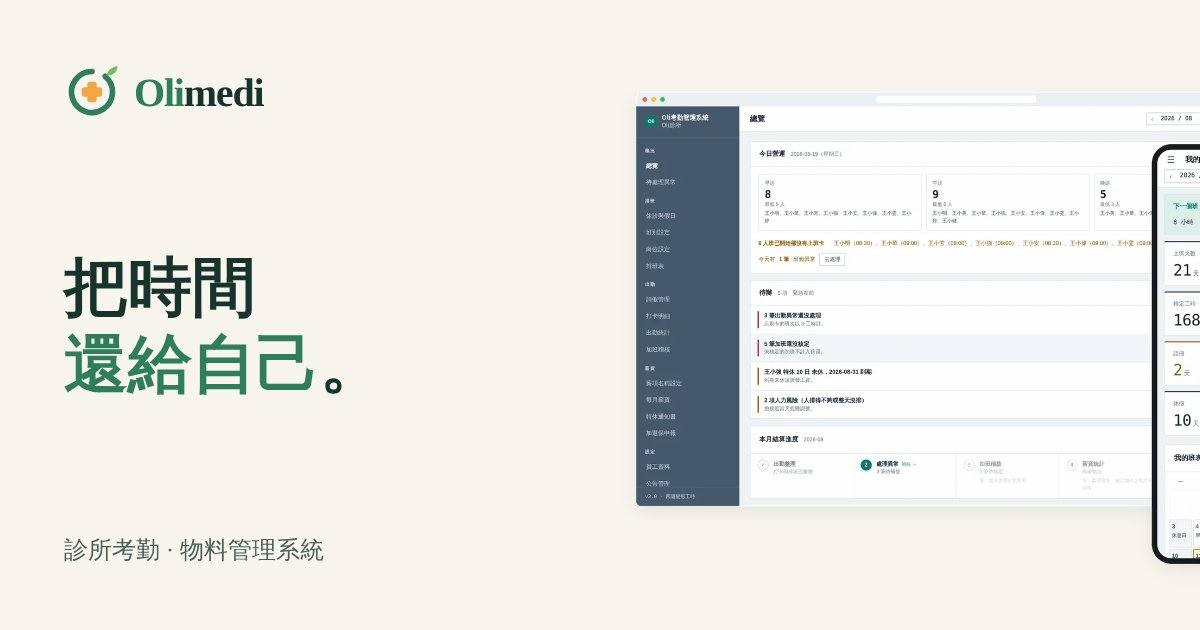
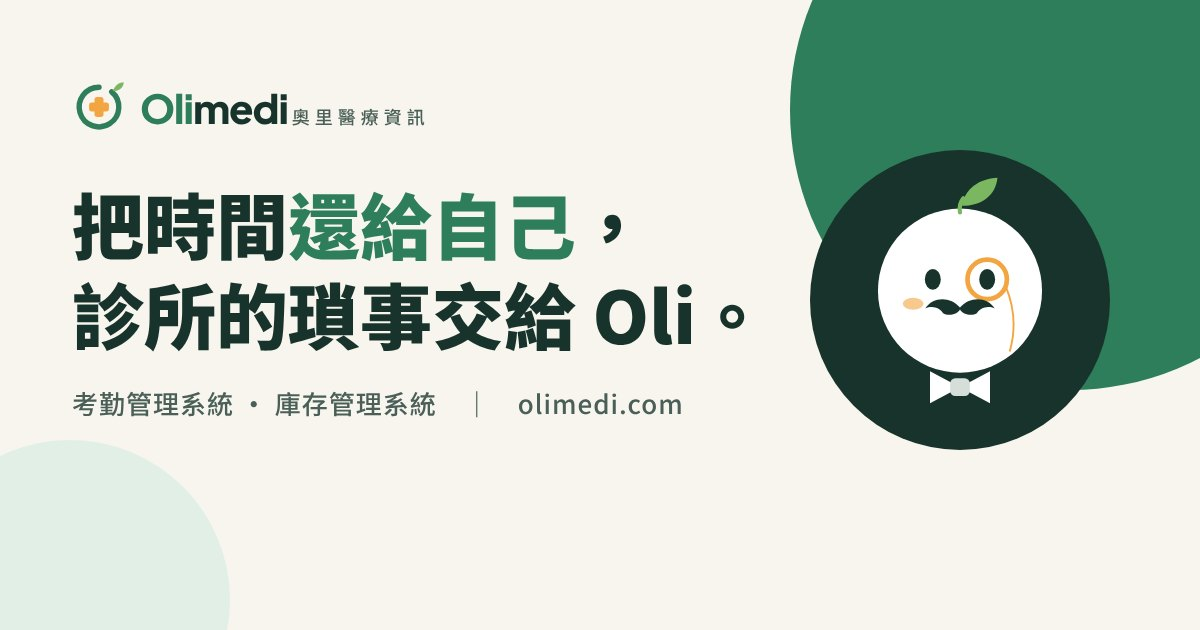
Per-article social share images; refresh default share image with new product names
Claude-Session: https://claude.ai/code/session_01JJ9BNjGdWpK4NeKE6jUSjR

diff --git a/blog/clinic-inventory-abc-stocktaking.html b/blog/clinic-inventory-abc-stocktaking.html
@@ -12,7 +12,7 @@
 <meta property="og:title" content="診所庫存盤點怎麼做？ABC 分級盤點法｜Olimedi 奧里">
 <meta property="og:description" content="診所庫存盤點怎麼做才不累？介紹 ABC 分級盤點法：依品項金額與重要性分成 A、B、C 三級，搭配不同盤點頻率，附分級步驟、盤點流程、差異處理與管制藥品等特殊品項的注意事項。">
 <meta property="og:url" content="https://olimedi.com/blog/clinic-inventory-abc-stocktaking.html">
-<meta property="og:image" content="https://olimedi.com/img/og.jpg">
+<meta property="og:image" content="https://olimedi.com/img/og/clinic-inventory-abc-stocktaking.jpg">
 <meta property="og:image:width" content="1200">
 <meta property="og:image:height" content="630">
 <meta property="og:locale" content="zh_TW">
@@ -22,7 +22,7 @@
 <link rel="preconnect" href="https://fonts.gstatic.com" crossorigin>
 <link href="https://fonts.googleapis.com/css2?family=Plus+Jakarta+Sans:wght@700;800&family=Noto+Sans+TC:wght@400;500;700;900&display=swap" rel="stylesheet">
 <link rel="stylesheet" href="/style.css">
-<script type="application/ld+json">{"@context": "https://schema.org", "@type": "BlogPosting", "headline": "診所庫存盤點怎麼做？ABC 分級盤點法", "description": "診所庫存盤點怎麼做才不累？介紹 ABC 分級盤點法：依品項金額與重要性分成 A、B、C 三級，搭配不同盤點頻率，附分級步驟、盤點流程、差異處理與管制藥品等特殊品項的注意事項。", "datePublished": "2026-10-03", "dateModified": "2026-10-03", "inLanguage": "zh-TW", "mainEntityOfPage": "https://olimedi.com/blog/clinic-inventory-abc-stocktaking.html", "image": "https://olimedi.com/img/og.jpg", "author": {"@type": "Organization", "name": "Olimedi 奧里醫療資訊"}, "publisher": {"@type": "Organization", "name": "Olimedi 奧里醫療資訊", "logo": {"@type": "ImageObject", "url": "https://olimedi.com/favicon.svg"}}}</script>
+<script type="application/ld+json">{"@context": "https://schema.org", "@type": "BlogPosting", "headline": "診所庫存盤點怎麼做？ABC 分級盤點法", "description": "診所庫存盤點怎麼做才不累？介紹 ABC 分級盤點法：依品項金額與重要性分成 A、B、C 三級，搭配不同盤點頻率，附分級步驟、盤點流程、差異處理與管制藥品等特殊品項的注意事項。", "datePublished": "2026-10-03", "dateModified": "2026-10-03", "inLanguage": "zh-TW", "mainEntityOfPage": "https://olimedi.com/blog/clinic-inventory-abc-stocktaking.html", "image": "https://olimedi.com/img/og/clinic-inventory-abc-stocktaking.jpg", "author": {"@type": "Organization", "name": "Olimedi 奧里醫療資訊"}, "publisher": {"@type": "Organization", "name": "Olimedi 奧里醫療資訊", "logo": {"@type": "ImageObject", "url": "https://olimedi.com/favicon.svg"}}}</script>
 <script type="application/ld+json">{"@context": "https://schema.org", "@type": "BreadcrumbList", "itemListElement": [{"@type": "ListItem", "position": 1, "name": "首頁", "item": "https://olimedi.com/"}, {"@type": "ListItem", "position": 2, "name": "診所管理專欄", "item": "https://olimedi.com/blog/"}, {"@type": "ListItem", "position": 3, "name": "診所庫存盤點怎麼做？ABC 分級盤點法", "item": "https://olimedi.com/blog/clinic-inventory-abc-stocktaking.html"}]}</script>
 </head>
 <body>

diff --git a/blog/clinic-annual-leave-calculation.html b/blog/clinic-annual-leave-calculation.html
@@ -12,7 +12,7 @@
 <meta property="og:title" content="診所特休怎麼算？依年資天數一覽與未休工資｜Olimedi 奧里">
 <meta property="og:description" content="診所員工特休怎麼算？整理勞基法第 38 條各年資特休天數、週年制與曆年制差異、特休由誰排定、未休特休工資的計算方式與發給期限，以及遞延與離職結算的注意事項。">
 <meta property="og:url" content="https://olimedi.com/blog/clinic-annual-leave-calculation.html">
-<meta property="og:image" content="https://olimedi.com/img/og.jpg">
+<meta property="og:image" content="https://olimedi.com/img/og/clinic-annual-leave-calculation.jpg">
 <meta property="og:image:width" content="1200">
 <meta property="og:image:height" content="630">
 <meta property="og:locale" content="zh_TW">
@@ -22,7 +22,7 @@
 <link rel="preconnect" href="https://fonts.gstatic.com" crossorigin>
 <link href="https://fonts.googleapis.com/css2?family=Plus+Jakarta+Sans:wght@700;800&family=Noto+Sans+TC:wght@400;500;700;900&display=swap" rel="stylesheet">
 <link rel="stylesheet" href="/style.css">
-<script type="application/ld+json">{"@context": "https://schema.org", "@type": "BlogPosting", "headline": "診所特休怎麼算？依年資天數一覽與未休工資", "description": "診所員工特休怎麼算？整理勞基法第 38 條各年資特休天數、週年制與曆年制差異、特休由誰排定、未休特休工資的計算方式與發給期限，以及遞延與離職結算的注意事項。", "datePublished": "2026-10-03", "dateModified": "2026-10-03", "inLanguage": "zh-TW", "mainEntityOfPage": "https://olimedi.com/blog/clinic-annual-leave-calculation.html", "image": "https://olimedi.com/img/og.jpg", "author": {"@type": "Organization", "name": "Olimedi 奧里醫療資訊"}, "publisher": {"@type": "Organization", "name": "Olimedi 奧里醫療資訊", "logo": {"@type": "ImageObject", "url": "https://olimedi.com/favicon.svg"}}}</script>
+<script type="application/ld+json">{"@context": "https://schema.org", "@type": "BlogPosting", "headline": "診所特休怎麼算？依年資天數一覽與未休工資", "description": "診所員工特休怎麼算？整理勞基法第 38 條各年資特休天數、週年制與曆年制差異、特休由誰排定、未休特休工資的計算方式與發給期限，以及遞延與離職結算的注意事項。", "datePublished": "2026-10-03", "dateModified": "2026-10-03", "inLanguage": "zh-TW", "mainEntityOfPage": "https://olimedi.com/blog/clinic-annual-leave-calculation.html", "image": "https://olimedi.com/img/og/clinic-annual-leave-calculation.jpg", "author": {"@type": "Organization", "name": "Olimedi 奧里醫療資訊"}, "publisher": {"@type": "Organization", "name": "Olimedi 奧里醫療資訊", "logo": {"@type": "ImageObject", "url": "https://olimedi.com/favicon.svg"}}}</script>
 <script type="application/ld+json">{"@context": "https://schema.org", "@type": "BreadcrumbList", "itemListElement": [{"@type": "ListItem", "position": 1, "name": "首頁", "item": "https://olimedi.com/"}, {"@type": "ListItem", "position": 2, "name": "診所管理專欄", "item": "https://olimedi.com/blog/"}, {"@type": "ListItem", "position": 3, "name": "診所特休怎麼算？依年資天數一覽與未休工資", "item": "https://olimedi.com/blog/clinic-annual-leave-calculation.html"}]}</script>
 </head>
 <body>

diff --git a/blog/clinic-shift-scheduling-tips.html b/blog/clinic-shift-scheduling-tips.html
@@ -12,7 +12,7 @@
 <meta property="og:title" content="診所排班表怎麼排？早午晚診排班的 6 個原則｜Olimedi 奧里">
 <meta property="og:description" content="診所有早午晚診、輪休、臨時請假，排班最容易亂。整理 6 個排班原則：先算人力需求、依崗位排班、注意勞基法工時規定、請假先排入、公平輪值與月初檢查時數。">
 <meta property="og:url" content="https://olimedi.com/blog/clinic-shift-scheduling-tips.html">
-<meta property="og:image" content="https://olimedi.com/img/og.jpg">
+<meta property="og:image" content="https://olimedi.com/img/og/clinic-shift-scheduling-tips.jpg">
 <meta property="og:image:width" content="1200">
 <meta property="og:image:height" content="630">
 <meta property="og:locale" content="zh_TW">
@@ -22,7 +22,7 @@
 <link rel="preconnect" href="https://fonts.gstatic.com" crossorigin>
 <link href="https://fonts.googleapis.com/css2?family=Plus+Jakarta+Sans:wght@700;800&family=Noto+Sans+TC:wght@400;500;700;900&display=swap" rel="stylesheet">
 <link rel="stylesheet" href="/style.css">
-<script type="application/ld+json">{"@context": "https://schema.org", "@type": "BlogPosting", "headline": "診所排班表怎麼排？早午晚診排班的 6 個原則", "description": "診所有早午晚診、輪休、臨時請假，排班最容易亂。整理 6 個排班原則：先算人力需求、依崗位排班、注意勞基法工時規定、請假先排入、公平輪值與月初檢查時數。", "datePublished": "2026-10-03", "dateModified": "2026-10-03", "inLanguage": "zh-TW", "mainEntityOfPage": "https://olimedi.com/blog/clinic-shift-scheduling-tips.html", "image": "https://olimedi.com/img/og.jpg", "author": {"@type": "Organization", "name": "Olimedi 奧里醫療資訊"}, "publisher": {"@type": "Organization", "name": "Olimedi 奧里醫療資訊", "logo": {"@type": "ImageObject", "url": "https://olimedi.com/favicon.svg"}}}</script>
+<script type="application/ld+json">{"@context": "https://schema.org", "@type": "BlogPosting", "headline": "診所排班表怎麼排？早午晚診排班的 6 個原則", "description": "診所有早午晚診、輪休、臨時請假，排班最容易亂。整理 6 個排班原則：先算人力需求、依崗位排班、注意勞基法工時規定、請假先排入、公平輪值與月初檢查時數。", "datePublished": "2026-10-03", "dateModified": "2026-10-03", "inLanguage": "zh-TW", "mainEntityOfPage": "https://olimedi.com/blog/clinic-shift-scheduling-tips.html", "image": "https://olimedi.com/img/og/clinic-shift-scheduling-tips.jpg", "author": {"@type": "Organization", "name": "Olimedi 奧里醫療資訊"}, "publisher": {"@type": "Organization", "name": "Olimedi 奧里醫療資訊", "logo": {"@type": "ImageObject", "url": "https://olimedi.com/favicon.svg"}}}</script>
 <script type="application/ld+json">{"@context": "https://schema.org", "@type": "BreadcrumbList", "itemListElement": [{"@type": "ListItem", "position": 1, "name": "首頁", "item": "https://olimedi.com/"}, {"@type": "ListItem", "position": 2, "name": "診所管理專欄", "item": "https://olimedi.com/blog/"}, {"@type": "ListItem", "position": 3, "name": "診所排班表怎麼排？早午晚診排班的 6 個原則", "item": "https://olimedi.com/blog/clinic-shift-scheduling-tips.html"}]}</script>
 </head>
 <body>

diff --git a/blog/clinic-overtime-pay-calculation.html b/blog/clinic-overtime-pay-calculation.html
@@ -12,7 +12,7 @@
 <meta property="og:title" content="診所員工加班費怎麼算？平日、休息日、國定假日一次看懂｜Olimedi 奧里">
 <meta property="og:description" content="診所員工加班費怎麼算？整理勞基法平日延長工時、休息日出勤、國定假日出勤的加班費算法，附月薪 36,000 元的試算範例與換補休規定。">
 <meta property="og:url" content="https://olimedi.com/blog/clinic-overtime-pay-calculation.html">
-<meta property="og:image" content="https://olimedi.com/img/og.jpg">
+<meta property="og:image" content="https://olimedi.com/img/og/clinic-overtime-pay-calculation.jpg">
 <meta property="og:image:width" content="1200">
 <meta property="og:image:height" content="630">
 <meta property="og:locale" content="zh_TW">
@@ -22,7 +22,7 @@
 <link rel="preconnect" href="https://fonts.gstatic.com" crossorigin>
 <link href="https://fonts.googleapis.com/css2?family=Plus+Jakarta+Sans:wght@700;800&family=Noto+Sans+TC:wght@400;500;700;900&display=swap" rel="stylesheet">
 <link rel="stylesheet" href="/style.css">
-<script type="application/ld+json">{"@context": "https://schema.org", "@type": "BlogPosting", "headline": "診所員工加班費怎麼算？平日、休息日、國定假日一次看懂", "description": "診所員工加班費怎麼算？整理勞基法平日延長工時、休息日出勤、國定假日出勤的加班費算法，附月薪 36,000 元的試算範例與換補休規定。", "datePublished": "2026-10-03", "dateModified": "2026-10-03", "inLanguage": "zh-TW", "mainEntityOfPage": "https://olimedi.com/blog/clinic-overtime-pay-calculation.html", "image": "https://olimedi.com/img/og.jpg", "author": {"@type": "Organization", "name": "Olimedi 奧里醫療資訊"}, "publisher": {"@type": "Organization", "name": "Olimedi 奧里醫療資訊", "logo": {"@type": "ImageObject", "url": "https://olimedi.com/favicon.svg"}}}</script>
+<script type="application/ld+json">{"@context": "https://schema.org", "@type": "BlogPosting", "headline": "診所員工加班費怎麼算？平日、休息日、國定假日一次看懂", "description": "診所員工加班費怎麼算？整理勞基法平日延長工時、休息日出勤、國定假日出勤的加班費算法，附月薪 36,000 元的試算範例與換補休規定。", "datePublished": "2026-10-03", "dateModified": "2026-10-03", "inLanguage": "zh-TW", "mainEntityOfPage": "https://olimedi.com/blog/clinic-overtime-pay-calculation.html", "image": "https://olimedi.com/img/og/clinic-overtime-pay-calculation.jpg", "author": {"@type": "Organization", "name": "Olimedi 奧里醫療資訊"}, "publisher": {"@type": "Organization", "name": "Olimedi 奧里醫療資訊", "logo": {"@type": "ImageObject", "url": "https://olimedi.com/favicon.svg"}}}</script>
 <script type="application/ld+json">{"@context": "https://schema.org", "@type": "BreadcrumbList", "itemListElement": [{"@type": "ListItem", "position": 1, "name": "首頁", "item": "https://olimedi.com/"}, {"@type": "ListItem", "position": 2, "name": "診所管理專欄", "item": "https://olimedi.com/blog/"}, {"@type": "ListItem", "position": 3, "name": "診所員工加班費怎麼算？平日、休息日、國定假日一次看懂", "item": "https://olimedi.com/blog/clinic-overtime-pay-calculation.html"}]}</script>
 </head>
 <body>

diff --git a/blog/clinic-supply-management.html b/blog/clinic-supply-management.html
@@ -12,7 +12,7 @@
 <meta property="og:title" content="診所耗材管理怎麼做？從 Excel 到系統的 5 個步驟｜Olimedi 奧里">
 <meta property="og:description" content="醫療院所耗材品項多、效期短、多人領用，最容易缺貨或過期。從建立品項清單、安全庫存、效期管理、領用紀錄到分級盤點，5 個步驟整理診所耗材。">
 <meta property="og:url" content="https://olimedi.com/blog/clinic-supply-management.html">
-<meta property="og:image" content="https://olimedi.com/img/og.jpg">
+<meta property="og:image" content="https://olimedi.com/img/og/clinic-supply-management.jpg">
 <meta property="og:image:width" content="1200">
 <meta property="og:image:height" content="630">
 <meta property="og:locale" content="zh_TW">
@@ -22,7 +22,7 @@
 <link rel="preconnect" href="https://fonts.gstatic.com" crossorigin>
 <link href="https://fonts.googleapis.com/css2?family=Plus+Jakarta+Sans:wght@700;800&family=Noto+Sans+TC:wght@400;500;700;900&display=swap" rel="stylesheet">
 <link rel="stylesheet" href="/style.css">
-<script type="application/ld+json">{"@context": "https://schema.org", "@type": "BlogPosting", "headline": "診所耗材管理怎麼做？從 Excel 到系統的 5 個步驟", "description": "醫療院所耗材品項多、效期短、多人領用，最容易缺貨或過期。從建立品項清單、安全庫存、效期管理、領用紀錄到分級盤點，5 個步驟整理診所耗材。", "datePublished": "2026-10-03", "dateModified": "2026-10-03", "inLanguage": "zh-TW", "mainEntityOfPage": "https://olimedi.com/blog/clinic-supply-management.html", "image": "https://olimedi.com/img/og.jpg", "author": {"@type": "Organization", "name": "Olimedi 奧里醫療資訊"}, "publisher": {"@type": "Organization", "name": "Olimedi 奧里醫療資訊", "logo": {"@type": "ImageObject", "url": "https://olimedi.com/favicon.svg"}}}</script>
+<script type="application/ld+json">{"@context": "https://schema.org", "@type": "BlogPosting", "headline": "診所耗材管理怎麼做？從 Excel 到系統的 5 個步驟", "description": "醫療院所耗材品項多、效期短、多人領用，最容易缺貨或過期。從建立品項清單、安全庫存、效期管理、領用紀錄到分級盤點，5 個步驟整理診所耗材。", "datePublished": "2026-10-03", "dateModified": "2026-10-03", "inLanguage": "zh-TW", "mainEntityOfPage": "https://olimedi.com/blog/clinic-supply-management.html", "image": "https://olimedi.com/img/og/clinic-supply-management.jpg", "author": {"@type": "Organization", "name": "Olimedi 奧里醫療資訊"}, "publisher": {"@type": "Organization", "name": "Olimedi 奧里醫療資訊", "logo": {"@type": "ImageObject", "url": "https://olimedi.com/favicon.svg"}}}</script>
 <script type="application/ld+json">{"@context": "https://schema.org", "@type": "BreadcrumbList", "itemListElement": [{"@type": "ListItem", "position": 1, "name": "首頁", "item": "https://olimedi.com/"}, {"@type": "ListItem", "position": 2, "name": "診所管理專欄", "item": "https://olimedi.com/blog/"}, {"@type": "ListItem", "position": 3, "name": "診所耗材管理怎麼做？從 Excel 到系統的 5 個步驟", "item": "https://olimedi.com/blog/clinic-supply-management.html"}]}</script>
 </head>
 <body>

diff --git a/_build/og.py b/_build/og.py
@@ -1,0 +1,54 @@
+# 產生 1200x630 社群分享圖（需要 playwright + Chromium；系統需有 Noto Sans CJK TC 字型）
+import os, html as _h
+HERE=os.path.dirname(os.path.abspath(__file__))
+FONT="file://"+os.path.join(HERE,"fonts","plus-jakarta-sans-latin-800-normal.woff2")
+LOGO_SVG='<svg viewBox="0 0 120 120" width="{s}" height="{s}"><path d="M88.3 26.3 A44 44 0 1 1 60 16" fill="none" stroke="#2E7D5B" stroke-width="12" stroke-linecap="round"/><path d="M91 25 C 94 13, 103 6, 115 5 C 114 17, 105 25, 91 25 Z" fill="#7BB661"/><rect x="50" y="38" width="20" height="44" rx="6" fill="#F2A541"/><rect x="38" y="50" width="44" height="20" rx="6" fill="#F2A541"/></svg>'
+CSS=f"""@font-face{{font-family:PJ;src:url('{FONT}') format('woff2');font-weight:800}}
+*{{margin:0;box-sizing:border-box}}
+body{{width:1200px;height:630px;overflow:hidden;background:#F7F5EE;font-family:'Noto Sans CJK TC','Noto Sans TC',sans-serif;color:#17332B;position:relative}}
+.brand{{display:flex;align-items:center;gap:14px;font-family:PJ,'Noto Sans CJK TC';font-weight:800;font-size:40px;letter-spacing:-1px}}
+.brand span{{color:#2E7D5B}} .brand small{{font-family:'Noto Sans CJK TC';font-weight:500;font-size:18px;letter-spacing:5px;color:#4A5F57;margin-left:4px}}
+.circ{{position:absolute;right:-150px;top:-170px;width:560px;height:560px;border-radius:50%;background:#2E7D5B}}
+.leaf{{position:absolute;left:-90px;bottom:-130px;width:320px;height:320px;border-radius:50%;background:#E1EFE6}}
+.ol{{position:absolute;right:46px;top:40px}}
+"""
+OLIVER='<svg viewBox="0 0 640 640" width="{s}" height="{s}"><circle cx="320" cy="320" r="320" fill="#17332B"/><circle cx="320" cy="300" r="175" fill="#FFFFFF"/><path d="M320 133 Q 317 115 327 103" fill="none" stroke="#7BB661" stroke-width="9" stroke-linecap="round"/><path d="M324 119 C 330 83, 360 61, 400 59 C 396 97, 366 119, 324 119 Z" fill="#7BB661"/><ellipse cx="262" cy="276" rx="17" ry="22" fill="#17332B"/><ellipse cx="378" cy="276" rx="17" ry="22" fill="#17332B"/><circle cx="378" cy="276" r="42" fill="none" stroke="#F2A541" stroke-width="10"/><path d="M418 292 Q 446 360 426 430" fill="none" stroke="#F2A541" stroke-width="4"/><ellipse cx="220" cy="328" rx="22" ry="13" fill="#F2A541" opacity="0.6"/><path d="M320 336 C 300 312, 262 312, 246 338 C 262 330, 278 338, 284 348 C 296 356, 314 350, 320 340 Z" fill="#17332B"/><path d="M320 336 C 340 312, 378 312, 394 338 C 378 330, 362 338, 356 348 C 344 356, 326 350, 320 340 Z" fill="#17332B"/><path d="M320 506 L 256 472 L 256 540 Z" fill="#FFFFFF"/><path d="M320 506 L 384 472 L 384 540 Z" fill="#FFFFFF"/><rect x="299" y="487" width="42" height="38" rx="11" fill="#D5DED9"/></svg>'
+def _brand(): return f'<div class="brand">{LOGO_SVG.format(s=54)}<div><span>Oli</span>medi<small>奧里醫療資訊</small></div></div>'
+def article_html(title, cat):
+    t=_h.escape(title)
+    # 標題以問號斷行
+    if "？" in t:
+        a,b=t.split("？",1); t=f"{a}？<br><em>{b}</em>" if b else t
+    return f"""<html><head><meta charset="utf-8"><style>{CSS}
+.tag{{display:inline-block;background:#FCEBD2;color:#B5701A;font-weight:700;font-size:22px;letter-spacing:3px;padding:6px 18px;border-radius:999px;margin:38px 0 22px}}
+h1{{font-weight:900;font-size:74px;line-height:1.25;max-width:960px}} h1 em{{font-style:normal;color:#2E7D5B;font-size:54px;display:inline-block;margin-top:12px}}
+.foot{{position:absolute;left:72px;bottom:46px;font-size:22px;color:#4A5F57;font-weight:500;letter-spacing:1px}}
+.wrap{{position:absolute;left:72px;top:60px}}
+.circ{{width:420px;height:420px;right:-170px;top:-190px}}
+</style></head><body><div class="leaf"></div><div class="circ"></div><div class="ol">{OLIVER.format(s=150)}</div>
+<div class="wrap">{_brand()}<div class="tag">診所管理專欄・{_h.escape(cat)}</div><h1>{t}</h1></div>
+<div class="foot">olimedi.com/blog　｜　把時間還給自己，診所的瑣事交給 Oli。</div></body></html>"""
+def default_html():
+    return f"""<html><head><meta charset="utf-8"><style>{CSS}
+.wrap{{position:absolute;left:72px;top:80px}}
+h1{{font-weight:900;font-size:72px;line-height:1.25;margin:44px 0 26px}} h1 em{{font-style:normal;color:#2E7D5B}}
+.sub{{font-size:26px;color:#4A5F57;font-weight:500;letter-spacing:1px}}
+.ol{{right:90px;top:150px}}
+</style></head><body><div class="leaf"></div><div class="circ"></div><div class="ol">{OLIVER.format(s=300)}</div>
+<div class="wrap">{_brand()}<h1>把時間<em>還給自己</em>，<br>診所的瑣事交給 Oli。</h1>
+<p class="sub">考勤管理系統 · 庫存管理系統　｜　olimedi.com</p></div></body></html>"""
+def render(jobs):
+    """jobs: list of (html, out_jpg)"""
+    if not jobs: return
+    from playwright.sync_api import sync_playwright
+    from PIL import Image
+    import tempfile
+    with sync_playwright() as p:
+        b=p.chromium.launch(); pg=b.new_page(viewport={"width":1200,"height":630})
+        for html,out in jobs:
+            with tempfile.NamedTemporaryFile("w",suffix=".html",delete=False) as f: f.write(html); fn=f.name
+            pg.goto("file://"+fn); pg.wait_for_timeout(600)
+            png=fn+".png"; pg.screenshot(path=png)
+            Image.open(png).convert("RGB").save(out,quality=86)
+            os.remove(fn); os.remove(png)
+        b.close()

diff --git a/_build/CONTENT_GUIDE.md b/_build/CONTENT_GUIDE.md
@@ -20,3 +20,5 @@
 - FB 貼文（網站連結放第一個網址，LINE 連結放後面，3–5 個 hashtag）
 - IG 圖文短文（連結請放個人檔案）
 - Threads 短版（口語、200 字內）
+
+- 執行 build.py 時會自動為新文章產生社群分享圖 `img/og/<slug>.jpg`（需 playwright/Chromium），一併 commit。
